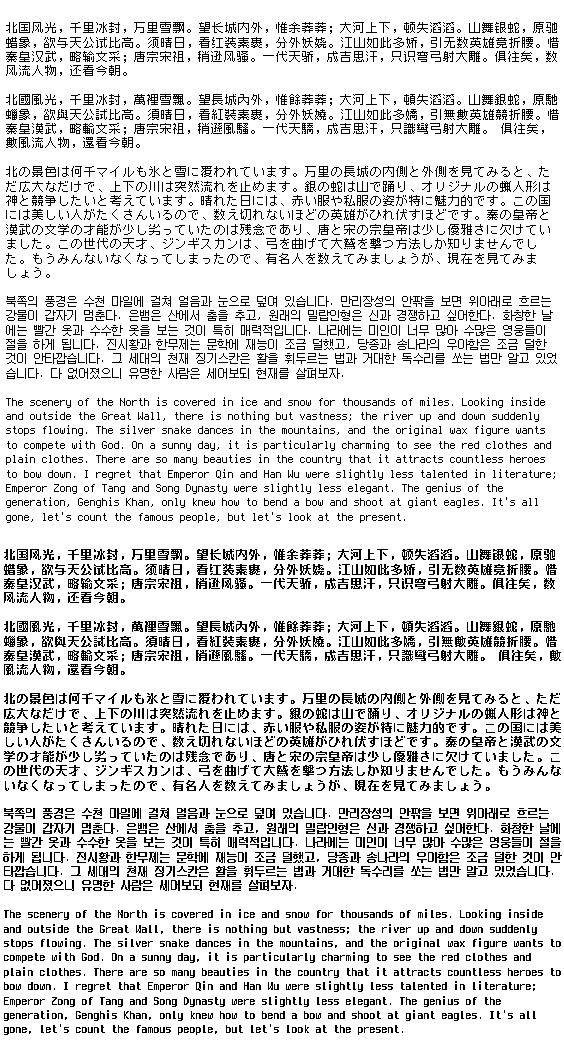
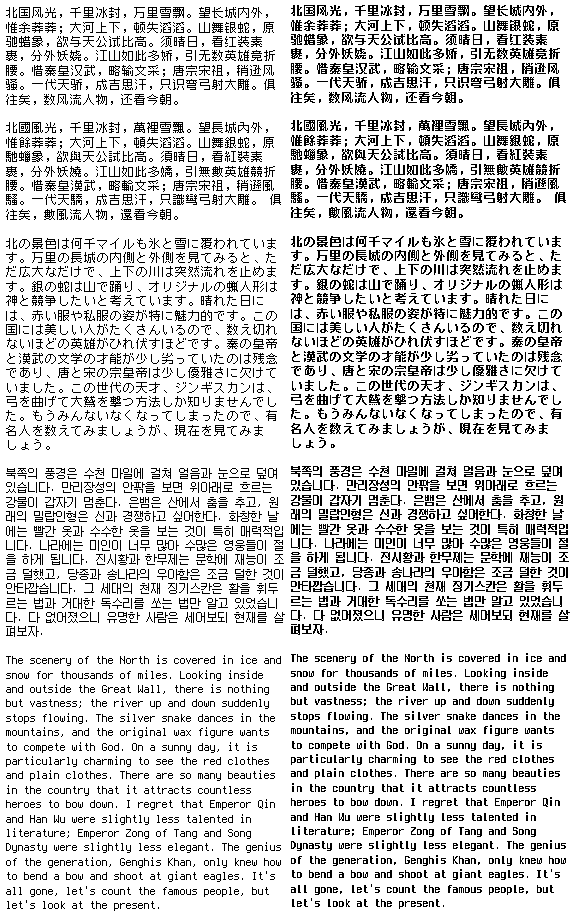
Edit post

diff --git a/_posts/2024-05-07-Fontforge-Bitmap-Edit.md b/_posts/2024-05-07-Fontforge-Bitmap-Edit.md
@@ -39,5 +39,5 @@ Import不管用只能试试传统的复制粘贴，刚开始分别打开Zpix和G
 
 方法先跟之前一样选择韩文字符范围，然后点击菜单栏Element-Transformations-Transform-Move，X,Y都填-100代表向左和向下各移动一格。改好后Generate保存，然后用上面复制粘贴的方法把修改好的韩文字符粘贴到Zpix里，最后生成新Bdf就大功告成了。
 
-<img src="/assets/img/Zpixunicode.png" width="564px" />
+<img src="/assets/img/Zpixunicode.png" width="577px" />
 
